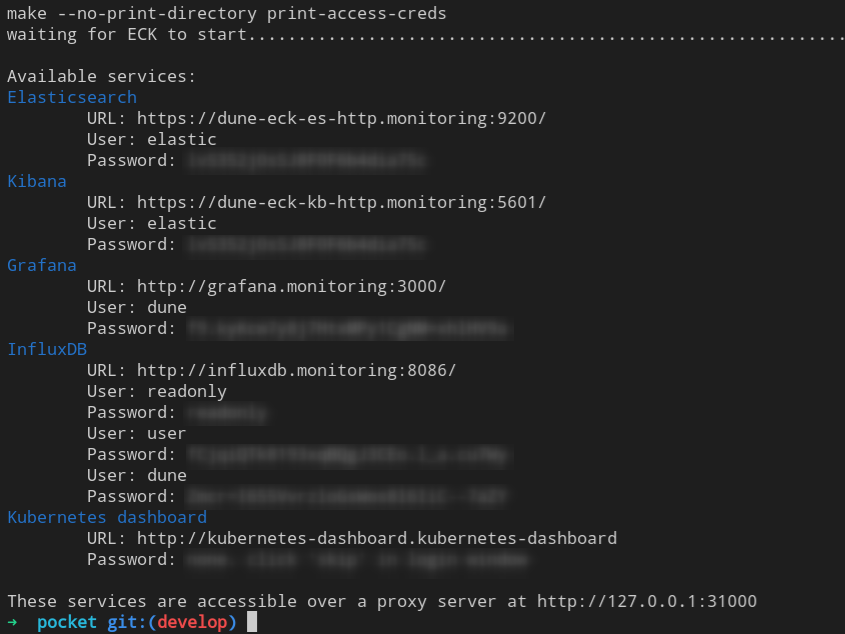
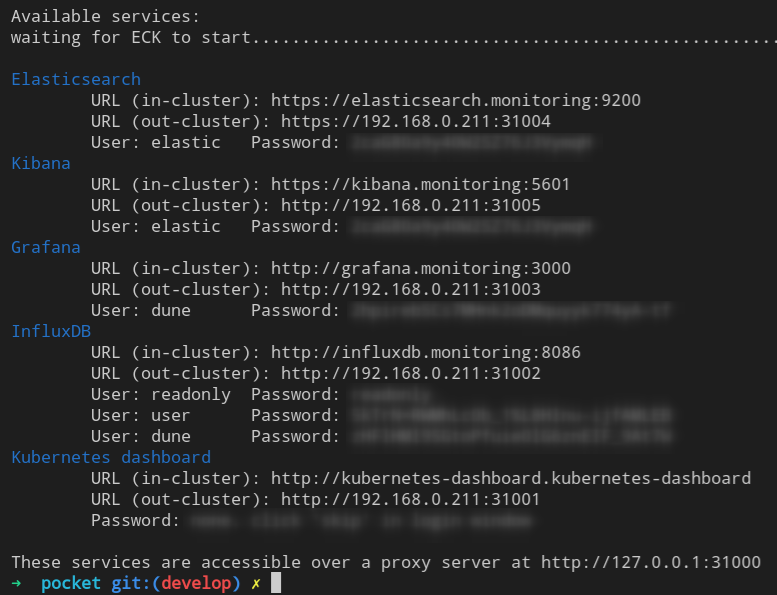
services are locally exposed

diff --git a/README.md b/README.md
@@ -8,14 +8,14 @@ For a cluster with all built-in services enabled:
 ```bash
 make setup.local
 # equivalent to
-# SERVICES=ECK,opmon,dashboard make setup.local
+# SERVICES=ECK,opmon make setup.local
 ```
 
 This will setup your local (one-node) cluster, and print out available default services and their access credentials.
 
 To start a cluster without ElasticSearch
 ```bash
-SERVICES=opmon,dashboard make setup.local
+SERVICES=opmon make setup.local
 ```
 
 ![](docs/print-access-creds.png)
